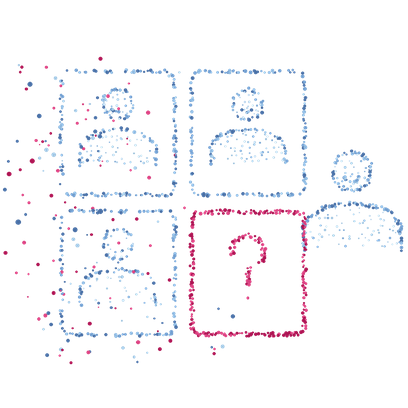
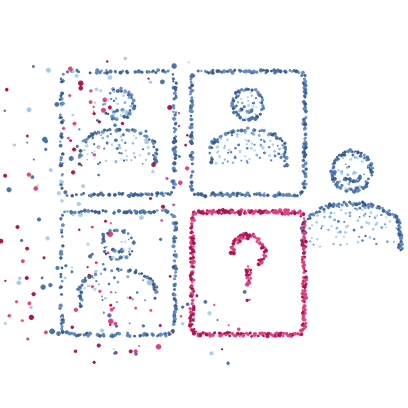
Szenen Mitarbeiterperformance kräftiger (Serpent statt Sea Cliff)
Claude-Session: https://claude.ai/code/session_01WRYKhSHh6BQB8xQaR7BU5Z

diff --git a/figuren/punktbilder.py b/figuren/punktbilder.py
@@ -31,7 +31,7 @@ PALETTEN = {
              "zerfall": [PLUM, SERPENT, SEACLIFF, MANGANESE], "akzent": [PLUM, (150, 15, 70)]},
     "frei": {"strich": [SEACLIFF, (190, 216, 236), WEISS], "flaeche": [SEACLIFF, (126, 168, 206), WEISS],
              "zerfall": [PLUM_HELL, PLUM, WEISS, SEACLIFF], "akzent": [PLUM_HELL, (226, 90, 146)]},
-    "szene": {"strich": [(112, 156, 204), (140, 182, 220), SERPENT], "flaeche": [SEACLIFF, (186, 212, 234), (130, 172, 214)],
+    "szene": {"strich": [SERPENT, (58, 90, 134), (96, 134, 182)], "flaeche": [(120, 162, 206), SEACLIFF, SERPENT],
               "zerfall": [PLUM, PLUM_HELL, SEACLIFF, SERPENT], "akzent": [PLUM, PLUM_HELL]},
 }
 
@@ -395,16 +395,18 @@ def header():
     return m
 
 
+SZ = {"strich_abstand": 2.7, "r_strich": (1.05, 2.0), "r_flaeche": (0.7, 1.35)}
+
 BILDER = [
     ("mp-hebel-motivation-hell", hebel_motivation, "hell", {}),
     ("mp-hebel-diagnostik-frei", hebel_diagnostik, "frei", {}),
     ("mp-hebel-talent-hell", hebel_talent, "hell", {}),
     ("mp-hebel-gesundheit-frei", hebel_gesundheit, "frei", {}),
     ("mp-hebel-coaching-hell", hebel_coaching, "hell", {}),
-    ("mp-szene-platz", szene_platz, "szene", {}),
-    ("mp-szene-giesskanne", szene_giesskanne, "szene", {}),
-    ("mp-szene-talente", szene_talente, "szene", {}),
-    ("mp-szene-zahlen", szene_zahlen, "szene", {}),
+    ("mp-szene-platz", szene_platz, "szene", SZ),
+    ("mp-szene-giesskanne", szene_giesskanne, "szene", SZ),
+    ("mp-szene-talente", szene_talente, "szene", SZ),
+    ("mp-szene-zahlen", szene_zahlen, "szene", SZ),
     ("mp-header-potenzial", header, "frei", {"strich_abstand": 3.6, "flaeche_abstand": 6.0, "r_strich": (1.4, 2.8), "r_flaeche": (1.0, 2.0), "auslauf": (0.35, 0.95)}),
 ]
 
